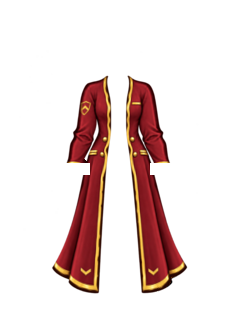
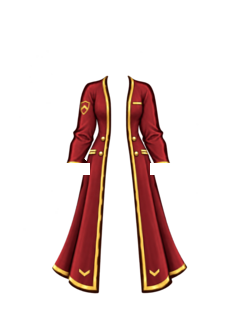
Deliver latest Guardian flap correction on the locked female fit

diff --git a/docs/art/GUARDIAN_FEMALE_V4.md b/docs/art/GUARDIAN_FEMALE_V4.md
@@ -1,5 +1,9 @@
 # Guardian — locked female robe geometry, clean front opening
 
+## Latest source authorized for delivery
+
+After a further narrow edit of the original image to remove the two inner strips while retaining its framing, Tanya instructed “Send it.” The current exporter uses `robe_final_no_inner_flaps.png`, the image shown immediately before that instruction. It normalizes to 230 × 320 at (1, 3), registers surface pixels with the saved landmarks, and copies the same locked alpha masks. The earlier source images remain as history. The rear cloth, body and identity are unchanged.
+
 Tanya requested Guardian next on 3 October 2026, then explicitly rejected the extra inner flap on the first generated source and asked to keep the original design. A second built-in image edit removed both unwanted narrow lining strips behind the gold front borders. The robe retains burgundy cloth, antique-gold trim, a small sleeve shield crest, four brass fasteners, a discreet chest welt, lower hip welts and one chevron per lower front panel.
 
 The app exports copy the exact Alchemist v7 front, foreground cuff and rear alpha masks. Both inward-widened cuffs, sleeve outer contours, shoulders, waist, front opening and hem remain locked on the shared 240 × 320 canvas. The female paper doll, identity and Everyday underclothes are unchanged. The continuous rear cloth is a depth layer behind the body; it does not add hanging strips at the front opening.

diff --git a/PROJECT_STATUS.md b/PROJECT_STATUS.md
@@ -1,5 +1,11 @@
 # Questwell Project Status
 
+## Latest Guardian correction authorized for delivery — 2026-10-03
+
+Tanya repeated the narrow inner-flap correction on the original robe image, then instructed “Send it” after the latest result. The app now uses that exact latest source (`robe_final_no_inner_flaps.png`) registered to the same immutable Alchemist v7 front and cuff masks. The rear cloth, body, identity and other classes are unchanged. See `docs/art/GUARDIAN_FEMALE_V4.md`.
+
+Latest Guardian delivery checks pending. No merge to `flutterflow` or launch.
+
 ## Female Guardian on the locked robe geometry — 2026-10-03
 
 Tanya requested Guardian next and then directed removal of the extra inner flap while retaining the original design. The corrected v4 source has a clean opening directly beside the gold borders. All three exported cloth masks exactly match locked Alchemist v7, including both widened inner cuffs. Burgundy cloth, gold trim, the sleeve crest, brass fasteners and simple hem chevrons retain the Guardian styling. The fixed body and identity are unchanged; male and neutral behavior is retained. See `docs/art/GUARDIAN_FEMALE_V4.md`.
